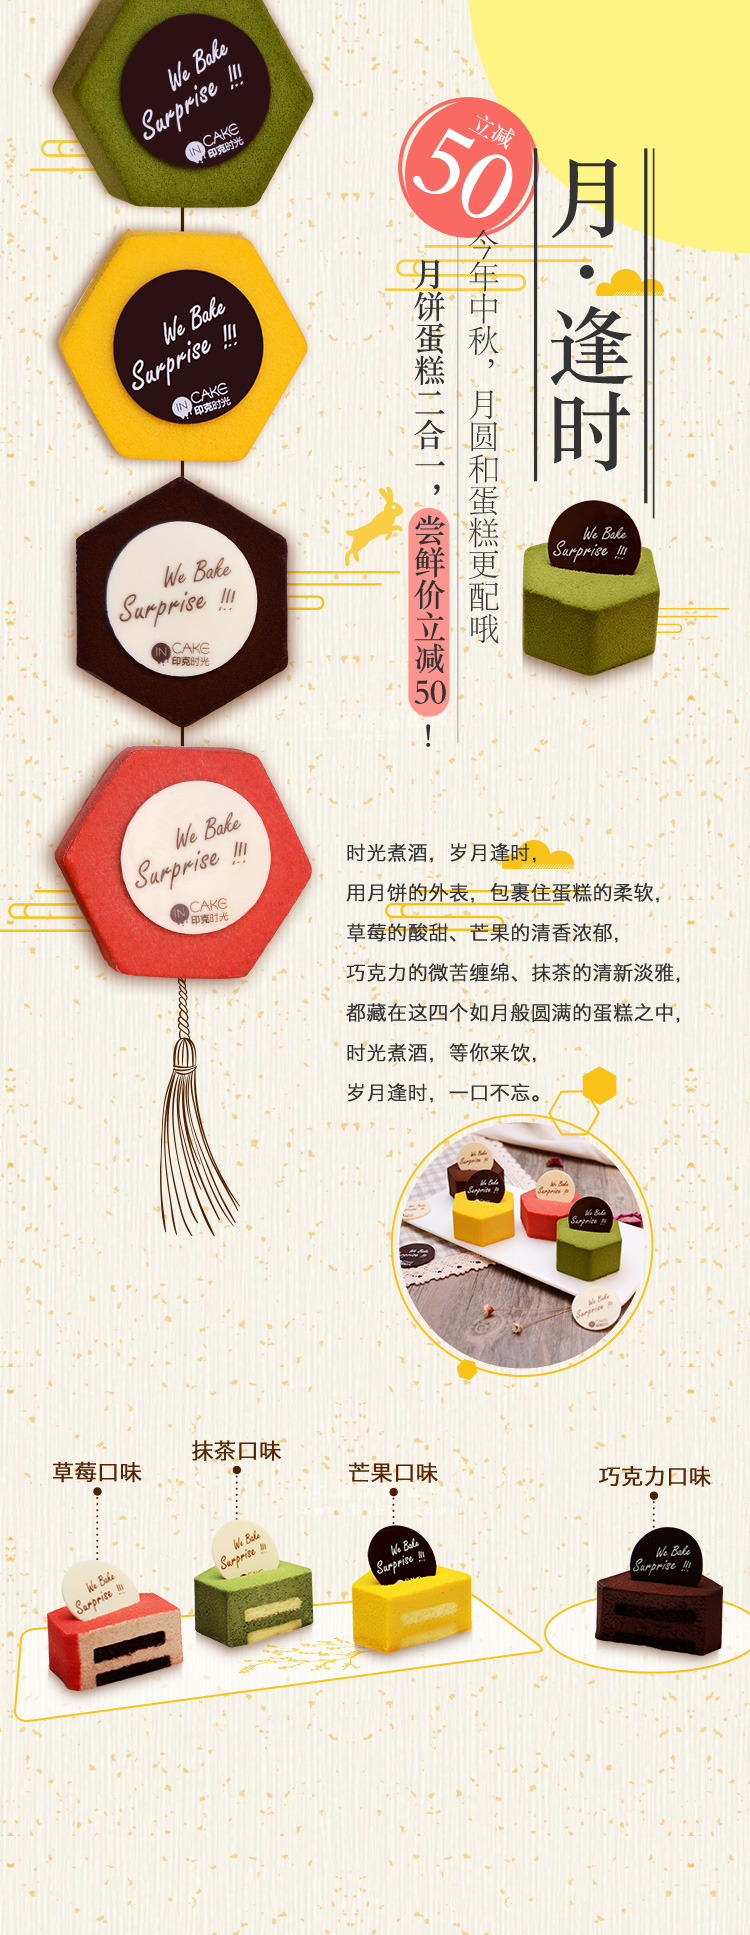
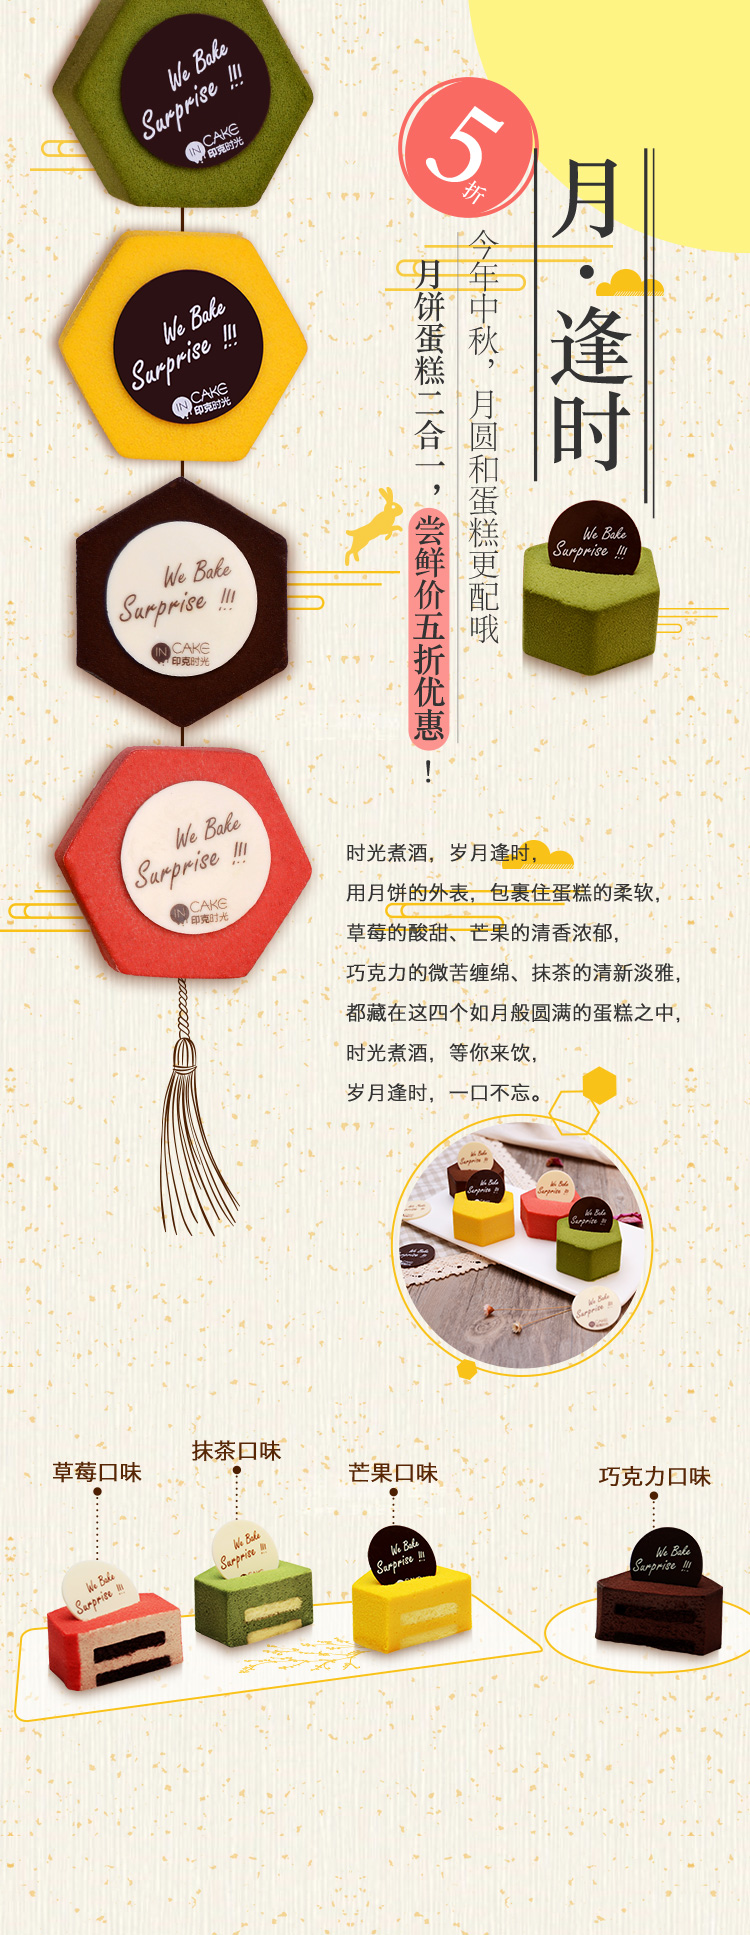
月饼蛋糕活动修改

Changed region(s): [[0.5213, 0.031, 0.736, 0.124], [0.552, 0.3101, 0.6133, 0.4031]]

diff --git a/src/midautumn.html b/src/midautumn.html
@@ -34,7 +34,7 @@
         <img src="assets/imgs/midautumn/rule_bg.jpg" alt="">
         <dl>
               <dt>活动规则</dt>
-              <dd>1. 月·逢时（原价￥189元）活动价￥139元</dd>
+              <dd>1. 月·逢时（原价￥318元）活动价<span>￥159</span>元</dd>
               <dd>2. 此活动限量2500份</dd>
               <dd>3. 活动时间：2017年9月17日—2017年10月3日</dd>
               <dd>4. 配送时间：2017年9月18日—2017年10月4日</dd>

diff --git a/src/assets/scss/midautumn.scss b/src/assets/scss/midautumn.scss
@@ -53,6 +53,10 @@
     font-size: 22px; /* px */
     line-height: 40px;
     margin-left: 152px;
+
+    span {
+      font-weight: bold;
+    }
   }
 }
 
